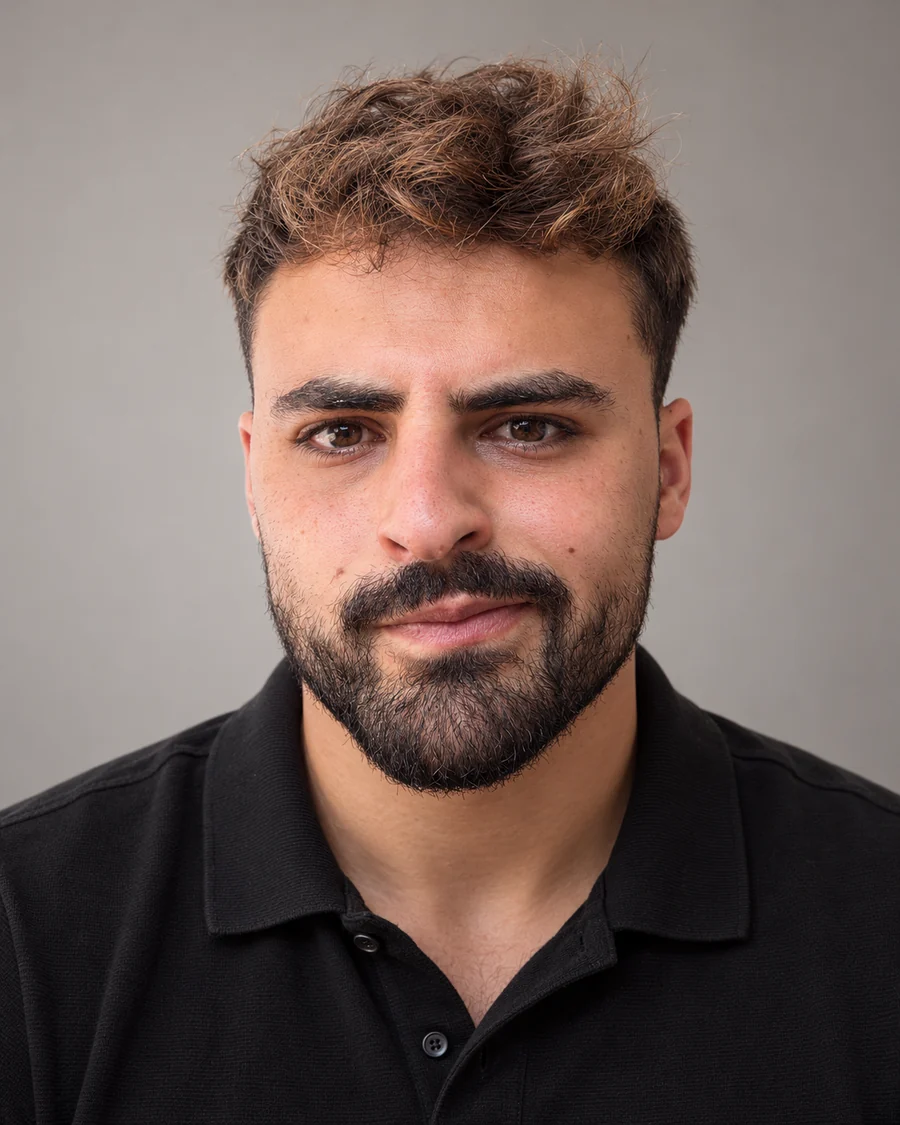
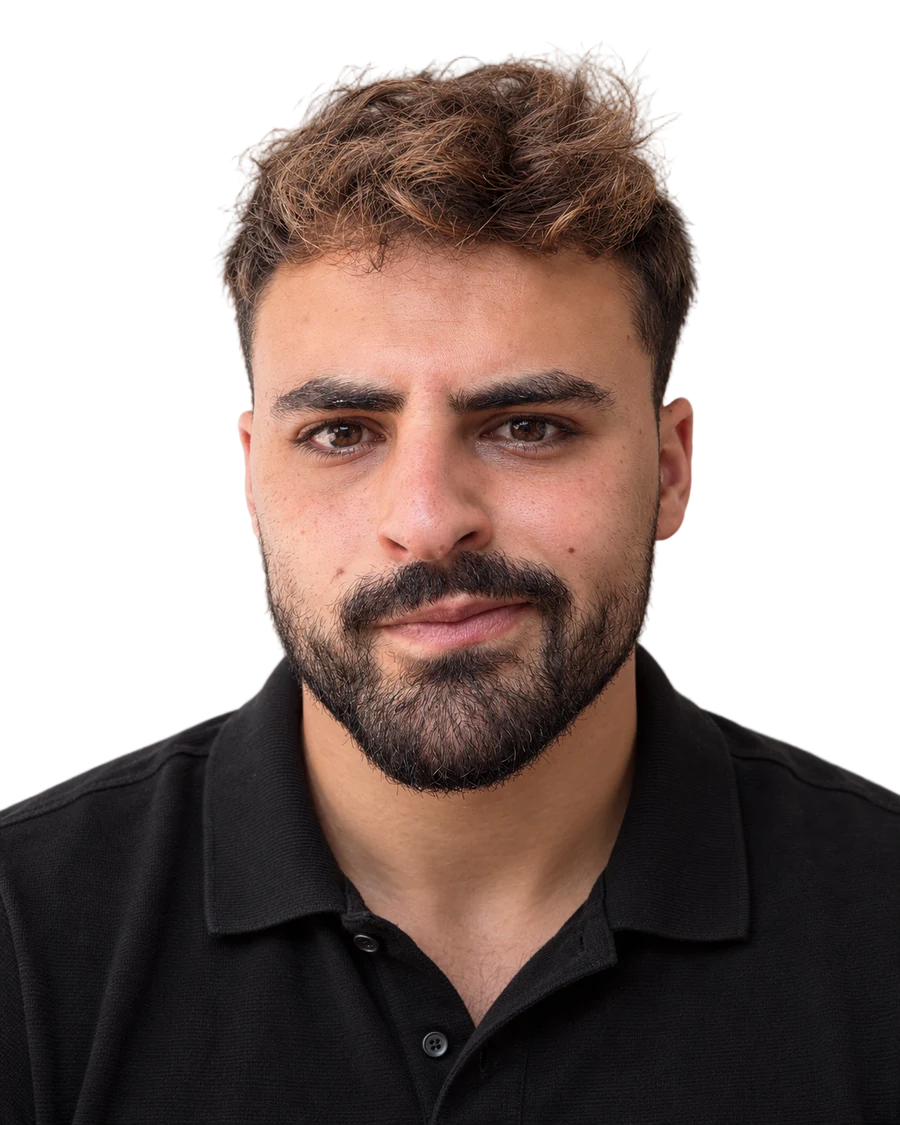
Make AI landing page the homepage with white background and cutout photo

diff --git a/funnel/ai/index.html b/funnel/ai/index.html
@@ -3,13 +3,13 @@
 <head>
   <meta charset="utf-8" />
   <meta name="viewport" content="width=device-width, initial-scale=1, viewport-fit=cover" />
-  <meta name="theme-color" content="#000000" />
+  <meta name="theme-color" content="#ffffff" />
   <title>שחר לוי - AI לעסקים | שיחת אפיון חינמית</title>
   <meta name="description" content="30 דקות בזום: מוצאים איפה הכי הרבה זמן הולך לאיבוד בעסק שלכם, ובוחרים פתרון AI אחד שעושה את העבודה הזו במקומכם." />
-  <link rel="canonical" href="https://shaharfinance.com/ai/" />
+  <link rel="canonical" href="https://shaharfinance.com/" />
   <meta property="og:type" content="website" />
   <meta property="og:locale" content="he_IL" />
-  <meta property="og:url" content="https://shaharfinance.com/ai/" />
+  <meta property="og:url" content="https://shaharfinance.com/" />
   <meta property="og:title" content="שחר לוי - AI לעסקים" />
   <meta property="og:description" content="שיחת אפיון חינמית של 30 דקות בזום. מוצאים עבודה אחת שחוזרת על עצמה בעסק, ומעבירים אותה ל-AI." />
   <meta property="og:image" content="https://shaharfinance.com/ai/shahar.jpg" />
@@ -20,23 +20,23 @@
   <link href="https://fonts.googleapis.com/css2?family=Noto+Sans+Hebrew:wght@400;500;600;700&display=swap" rel="stylesheet" />
   <style>
     :root {
-      --black: #000000;
-      --tile: #161618;
-      --tile-line: #2A2A2E;
-      --navy: #1B3A6B;
-      --green: #22C55E;
-      --green-light: #4ADE80;
-      --text: #F5F5F7;
-      --muted: #A1A1A6;
+      --bg: #FFFFFF;
+      --tile: #F5F5F7;
+      --tile-line: #E5E5EA;
+      --navy: #0E2A47;
+      --green: #15803D;
+      --green-light: #15803D;
+      --text: #0E2A47;
+      --muted: #55606E;
       --radius: 24px;
       --spring: cubic-bezier(.2, .8, .2, 1);
     }
     * { box-sizing: border-box; margin: 0; }
-    html { overflow-x: hidden; width: 100%; background: var(--black); scroll-padding-top: 76px; }
+    html { overflow-x: hidden; width: 100%; background: var(--bg); scroll-padding-top: 76px; }
     body {
       overflow-x: hidden; width: 100%; position: relative;
       font-family: -apple-system, BlinkMacSystemFont, 'Noto Sans Hebrew', 'Segoe UI', sans-serif;
-      background: var(--black); color: var(--text);
+      background: var(--bg); color: var(--text);
       font-size: 1.0625rem; line-height: 1.6;
       -webkit-font-smoothing: antialiased; -moz-osx-font-smoothing: grayscale;
     }
@@ -52,7 +52,7 @@
     /* Header - translucent layer, content scrolls under it */
     .nav {
       position: sticky; top: 0; z-index: 30;
-      background: rgba(0, 0, 0, .72);
+      background: rgba(255, 255, 255, .78);
       -webkit-backdrop-filter: saturate(180%) blur(20px); backdrop-filter: saturate(180%) blur(20px);
     }
     .nav .wrap { display: flex; align-items: center; justify-content: space-between; min-height: 60px; }
@@ -70,18 +70,18 @@
     }
     .cta-ring::before {
       content: ''; position: absolute; inset: -150%;
-      background: conic-gradient(from 0deg, transparent 0 62%, var(--green) 76%, #D1FAE5 84%, var(--green) 92%, transparent 100%);
+      background: conic-gradient(from 0deg, transparent 0 62%, var(--green) 76%, #86EFAC 84%, var(--green) 92%, transparent 100%);
       animation: spin 3.6s linear infinite;
     }
     @keyframes spin { to { transform: rotate(360deg); } }
     .btn {
       position: relative; display: inline-flex; align-items: center; justify-content: center; gap: 10px;
       min-height: 58px; padding: 14px 30px; border-radius: 14px;
-      background: var(--green); color: #04140B; font-size: 1.0625rem; font-weight: 700; text-decoration: none;
+      background: var(--green); color: #FFFFFF; font-size: 1.0625rem; font-weight: 700; text-decoration: none;
       transition: background-color .15s ease, transform .1s ease-out;
       touch-action: manipulation; -webkit-tap-highlight-color: transparent;
     }
-    .btn:hover { background: var(--green-light); }
+    .btn:hover { background: #116A32; }
     .btn:active { transform: scale(.97); }
     .btn svg { width: 22px; height: 22px; flex: none; fill: currentColor; }
     a:focus-visible, summary:focus-visible { outline: 3px solid var(--green-light); outline-offset: 3px; border-radius: 8px; }
@@ -92,7 +92,7 @@
     .hero::before {
       content: ''; position: absolute; inset: 0; pointer-events: none;
       background:
-        radial-gradient(40% 55% at 20% 62%, rgba(27, 58, 107, .62), transparent 72%);
+        radial-gradient(42% 60% at 20% 60%, rgba(21, 128, 61, .10), transparent 72%);
       -webkit-mask-image: linear-gradient(to bottom, #000 60%, transparent 100%);
       mask-image: linear-gradient(to bottom, #000 60%, transparent 100%);
     }
@@ -106,10 +106,11 @@
     .hero h1 span { display: block; }
     .hero h1 .accent { color: var(--green-light); margin-top: .12em; }
     .lead { color: var(--muted); font-size: clamp(1.1875rem, 2vw, 1.375rem); line-height: 1.5; margin-bottom: 32px; max-width: 30em; }
-    .hero-photo { position: relative; align-self: center; padding-block: 40px; }
+    .hero-photo { position: relative; align-self: end; }
     .hero-photo img {
-      display: block; width: 100%; max-width: 420px; height: auto; margin-inline: auto;
-      border-radius: 28px;
+      display: block; width: 100%; max-width: 440px; height: auto; margin-inline: auto;
+      -webkit-mask-image: linear-gradient(to bottom, #000 84%, transparent 100%);
+      mask-image: linear-gradient(to bottom, #000 84%, transparent 100%);
     }
 
     /* Recognition */
@@ -120,10 +121,10 @@
     .aside b { color: var(--text); font-weight: 600; }
 
     /* About */
-    .about { background: linear-gradient(180deg, #000, #0A1424 50%, #000); }
+    .about { background: linear-gradient(180deg, #FFFFFF, #F1F7F3 50%, #FFFFFF); }
     .about .wrap { max-width: 720px; text-align: center; }
     .about h2 { margin-bottom: 26px; }
-    .about p { font-size: clamp(1.1875rem, 2.2vw, 1.5rem); line-height: 1.5; color: #D6D6DB; }
+    .about p { font-size: clamp(1.1875rem, 2.2vw, 1.5rem); line-height: 1.5; color: #33404F; }
     .about p + p { margin-top: 18px; }
 
     /* Work */
@@ -165,10 +166,10 @@
     .close { text-align: center; position: relative; overflow: hidden; }
     .close::before {
       content: ''; position: absolute; inset: 0; pointer-events: none;
-      background: radial-gradient(52% 62% at 50% 100%, rgba(27, 58, 107, .55), transparent 75%);
+      background: radial-gradient(52% 62% at 50% 100%, rgba(21, 128, 61, .09), transparent 75%);
     }
     .close .wrap { position: relative; }
-    .avatar { display: block; width: 104px; height: 104px; margin: 0 auto 28px; border-radius: 50%; object-fit: cover; object-position: 50% 0; background: var(--navy); }
+    .avatar { display: block; width: 104px; height: 104px; margin: 0 auto 28px; border-radius: 50%; object-fit: cover; object-position: 50% 0; background: #E8F5EC; }
     .close h2 { max-width: 16em; margin: 0 auto 14px; }
     .close .then { color: var(--muted); font-size: clamp(1.1875rem, 2.2vw, 1.5rem); margin-bottom: 32px; }
     .sign { margin-top: 26px; color: var(--muted); }
@@ -185,8 +186,8 @@
       .hero .wrap { grid-template-columns: 1fr; gap: 0; text-align: center; }
       .hero-copy { padding-block: 44px 28px; }
       .lead { margin-inline: auto; }
-      .hero::before { background: radial-gradient(85% 32% at 50% 80%, rgba(27, 58, 107, .68), transparent 75%); }
-      .hero-photo { padding-block: 0 44px; }
+      .hero::before { background: radial-gradient(85% 32% at 50% 80%, rgba(21, 128, 61, .10), transparent 75%); }
+      .hero-photo { padding-block: 0; }
       .hero-photo img { max-width: 300px; }
       .pains, .work, .steps { grid-template-columns: 1fr; }
       .cta-ring { display: flex; width: 100%; }
@@ -200,7 +201,7 @@
       .btn:active { transform: none; }
     }
     @media (prefers-reduced-transparency: reduce) {
-      .nav { background: #000; -webkit-backdrop-filter: none; backdrop-filter: none; }
+      .nav { background: #FFF; -webkit-backdrop-filter: none; backdrop-filter: none; }
     }
   </style>
   <script>document.documentElement.classList.add('js');</script>
